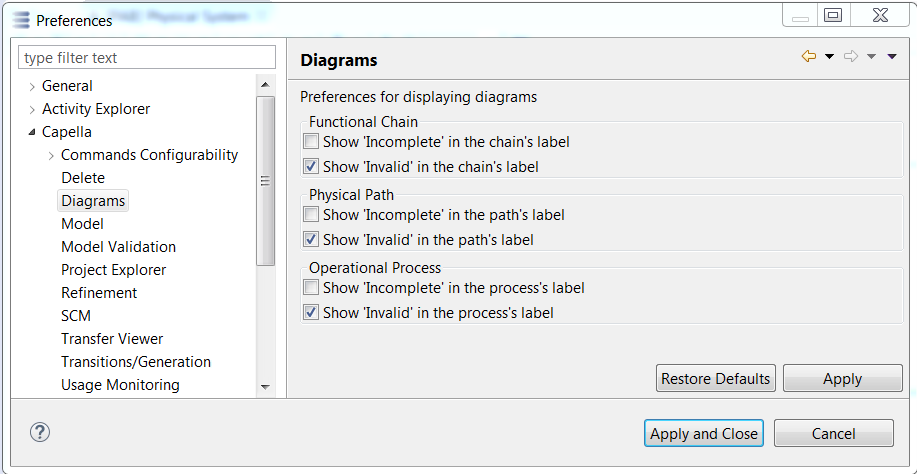
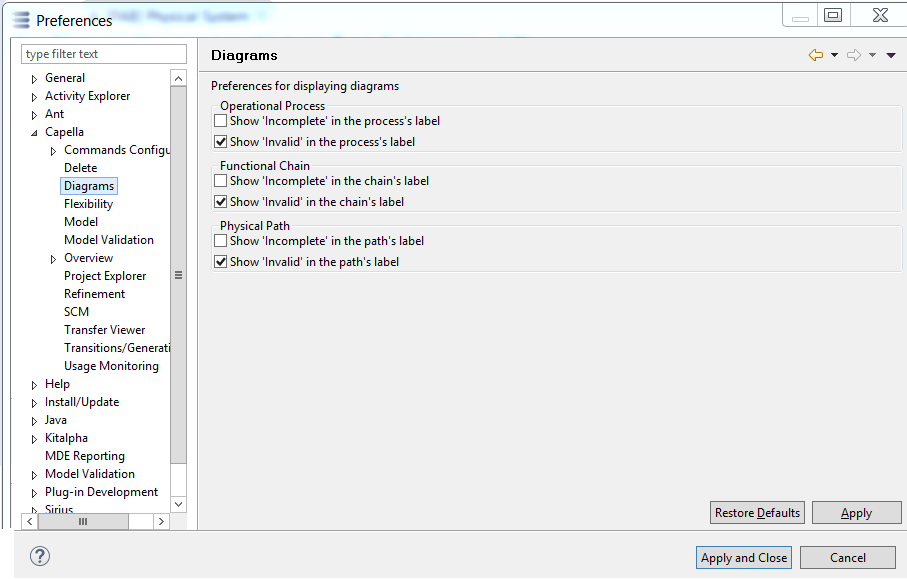
[2212] The preference to disable display "invalid" Physical path in diagram doesn't work
Delete extension in plugin.xml

Bug: 2212

diff --git a/core/plugins/org.polarsys.capella.core.sirius.analysis/src/org/polarsys/capella/core/sirius/analysis/preferences/DiagramsPreferencePage.java b/core/plugins/org.polarsys.capella.core.sirius.analysis/src/org/polarsys/capella/core/sirius/analysis/preferences/DiagramsPreferencePage.java
@@ -65,6 +65,22 @@ public class DiagramsPreferencePage extends AbstractDefaultPreferencePage {
   protected void createFieldEditors() {
 
     final Composite fieldEditorParent = getFieldEditorParent();
+    
+    // Preference for Operational Process
+    Group groupOperationalProcess = createGroup(LABEL_GROUP_OPERATIONAL_PROCESS, LABEL_GROUP_OPERATIONAL_PROCESS,
+        fieldEditorParent);
+
+    PreferenceField fieldEditorOP1 = new PreferenceField(NAME_PREF_DISPLAY_INCOMPLETE_IN_OPERATIONAL_PROCESS_LABEL,
+        LABEL_PREF_DISPLAY_INCOMPLETE_IN_OPERATIONAL_PROCESS_LABEL, groupOperationalProcess);
+    addField(fieldEditorOP1, UserProfileModeEnum.Expert, groupOperationalProcess, ProjectScope.class);
+    fieldEditorOP1.getChangeControl(groupOperationalProcess)
+        .setToolTipText(TOOLTIP_PREF_DISPLAY_INCOMPLETE_IN_OPERATIONAL_PROCESS_LABEL);
+
+    PreferenceField fieldEditorOP2 = new PreferenceField(NAME_PREF_DISPLAY_INVALID_IN_OPERATIONAL_PROCESS_LABEL,
+        LABEL_PREF_DISPLAY_INVALID_IN_OPERATIONAL_PROCESS_LABEL, groupOperationalProcess);
+    addField(fieldEditorOP2, UserProfileModeEnum.Expert, groupOperationalProcess, ProjectScope.class);
+    fieldEditorOP2.getChangeControl(groupOperationalProcess)
+        .setToolTipText(TOOLTIP_PREF_DISPLAY_INVALID_IN_OPERATIONAL_PROCESS_LABEL);
 
     // Preference for Functional Chain
     Group groupFunctionalChain = createGroup(LABEL_GROUP_FUNCTIONAL_CHAIN, LABEL_GROUP_FUNCTIONAL_CHAIN,
@@ -96,22 +112,7 @@ public class DiagramsPreferencePage extends AbstractDefaultPreferencePage {
     addField(fieldEditorPP2, UserProfileModeEnum.Expert, groupPhysicalPath, ProjectScope.class);
     fieldEditorPP2.getChangeControl(groupPhysicalPath)
         .setToolTipText(TOOLTIP_PREF_DISPLAY_INVALID_IN_PHYSICAL_PATH_LABEL);
-
-    // Preference for Operational Process
-    Group groupOperationalProcess = createGroup(LABEL_GROUP_OPERATIONAL_PROCESS, LABEL_GROUP_OPERATIONAL_PROCESS,
-        fieldEditorParent);
-
-    PreferenceField fieldEditorOP1 = new PreferenceField(NAME_PREF_DISPLAY_INCOMPLETE_IN_OPERATIONAL_PROCESS_LABEL,
-        LABEL_PREF_DISPLAY_INCOMPLETE_IN_OPERATIONAL_PROCESS_LABEL, groupOperationalProcess);
-    addField(fieldEditorOP1, UserProfileModeEnum.Expert, groupOperationalProcess, ProjectScope.class);
-    fieldEditorOP1.getChangeControl(groupOperationalProcess)
-        .setToolTipText(TOOLTIP_PREF_DISPLAY_INCOMPLETE_IN_OPERATIONAL_PROCESS_LABEL);
-
-    PreferenceField fieldEditorOP2 = new PreferenceField(NAME_PREF_DISPLAY_INVALID_IN_OPERATIONAL_PROCESS_LABEL,
-        LABEL_PREF_DISPLAY_INVALID_IN_OPERATIONAL_PROCESS_LABEL, groupOperationalProcess);
-    addField(fieldEditorOP2, UserProfileModeEnum.Expert, groupOperationalProcess, ProjectScope.class);
-    fieldEditorOP2.getChangeControl(groupOperationalProcess)
-        .setToolTipText(TOOLTIP_PREF_DISPLAY_INVALID_IN_OPERATIONAL_PROCESS_LABEL);
+ 
   }
 
   @Override

diff --git a/core/plugins/org.polarsys.capella.core.sirius.analysis/src/org/polarsys/capella/core/sirius/analysis/PhysicalServices.java b/core/plugins/org.polarsys.capella.core.sirius.analysis/src/org/polarsys/capella/core/sirius/analysis/PhysicalServices.java
@@ -1229,7 +1229,7 @@ public class PhysicalServices {
     if (displayIncompleteLabel && displayInvalidLabel) {
       label = label + ", "; //$NON-NLS-1$
     }
-    if (!isValid) {
+    if (displayInvalidLabel) {
       label = label + INVALID_PHYSICAL_PATH_LABEL;
     }
     if (displayIncompleteLabel || displayInvalidLabel) {
